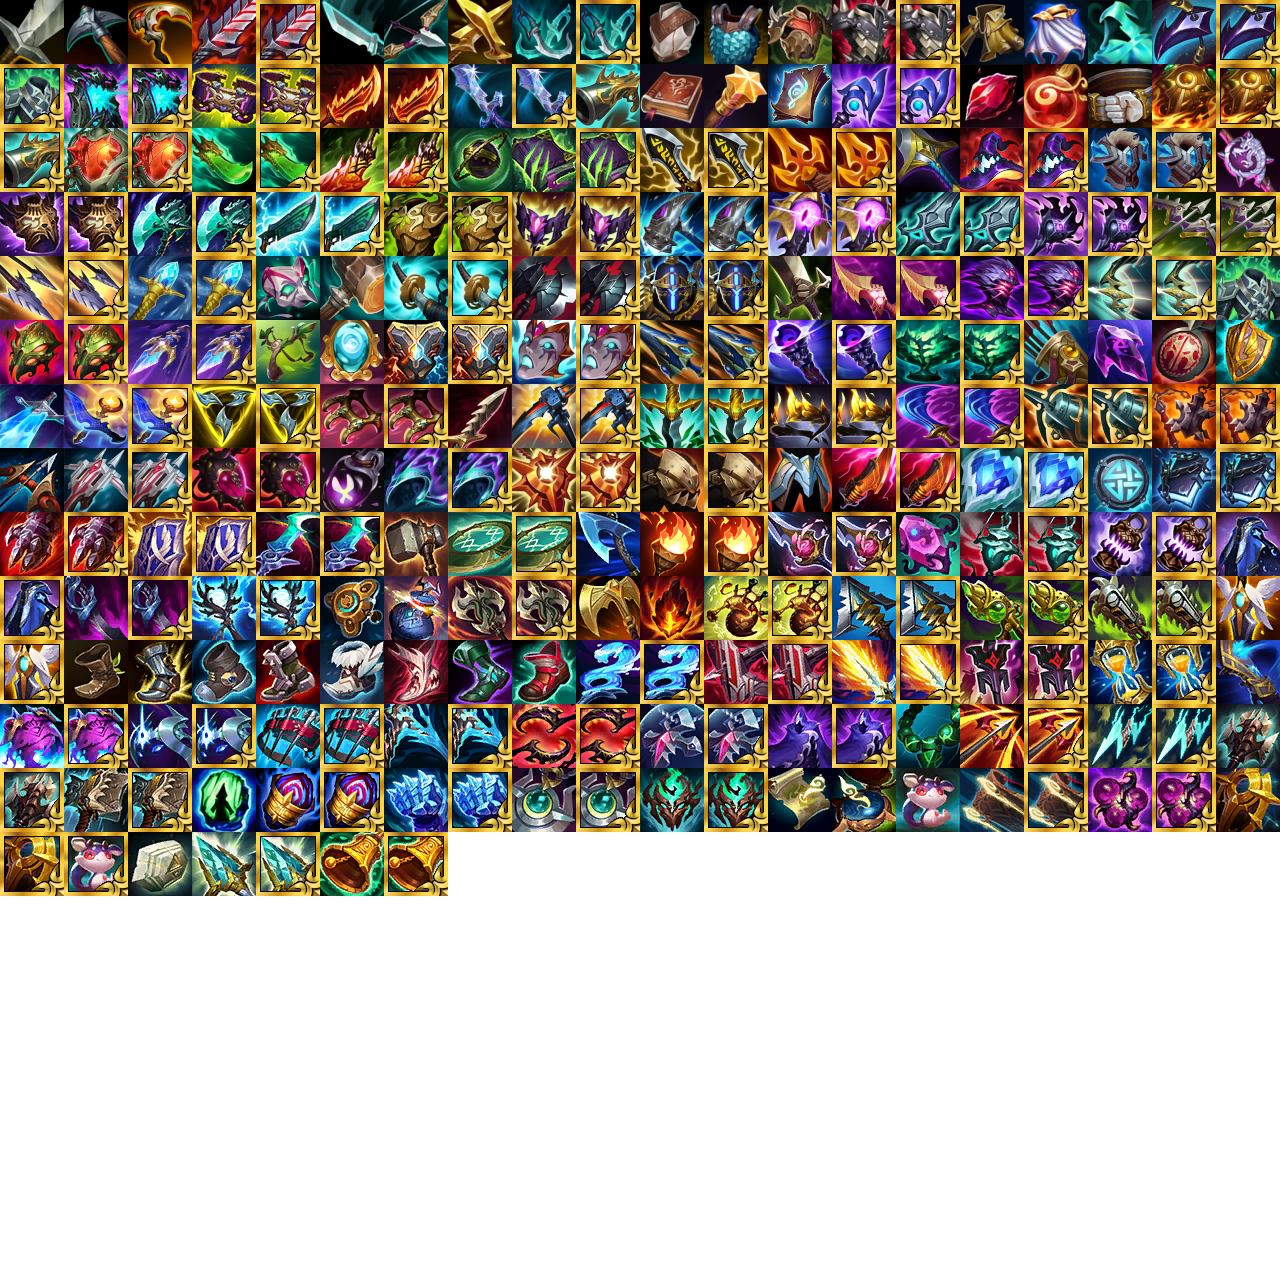
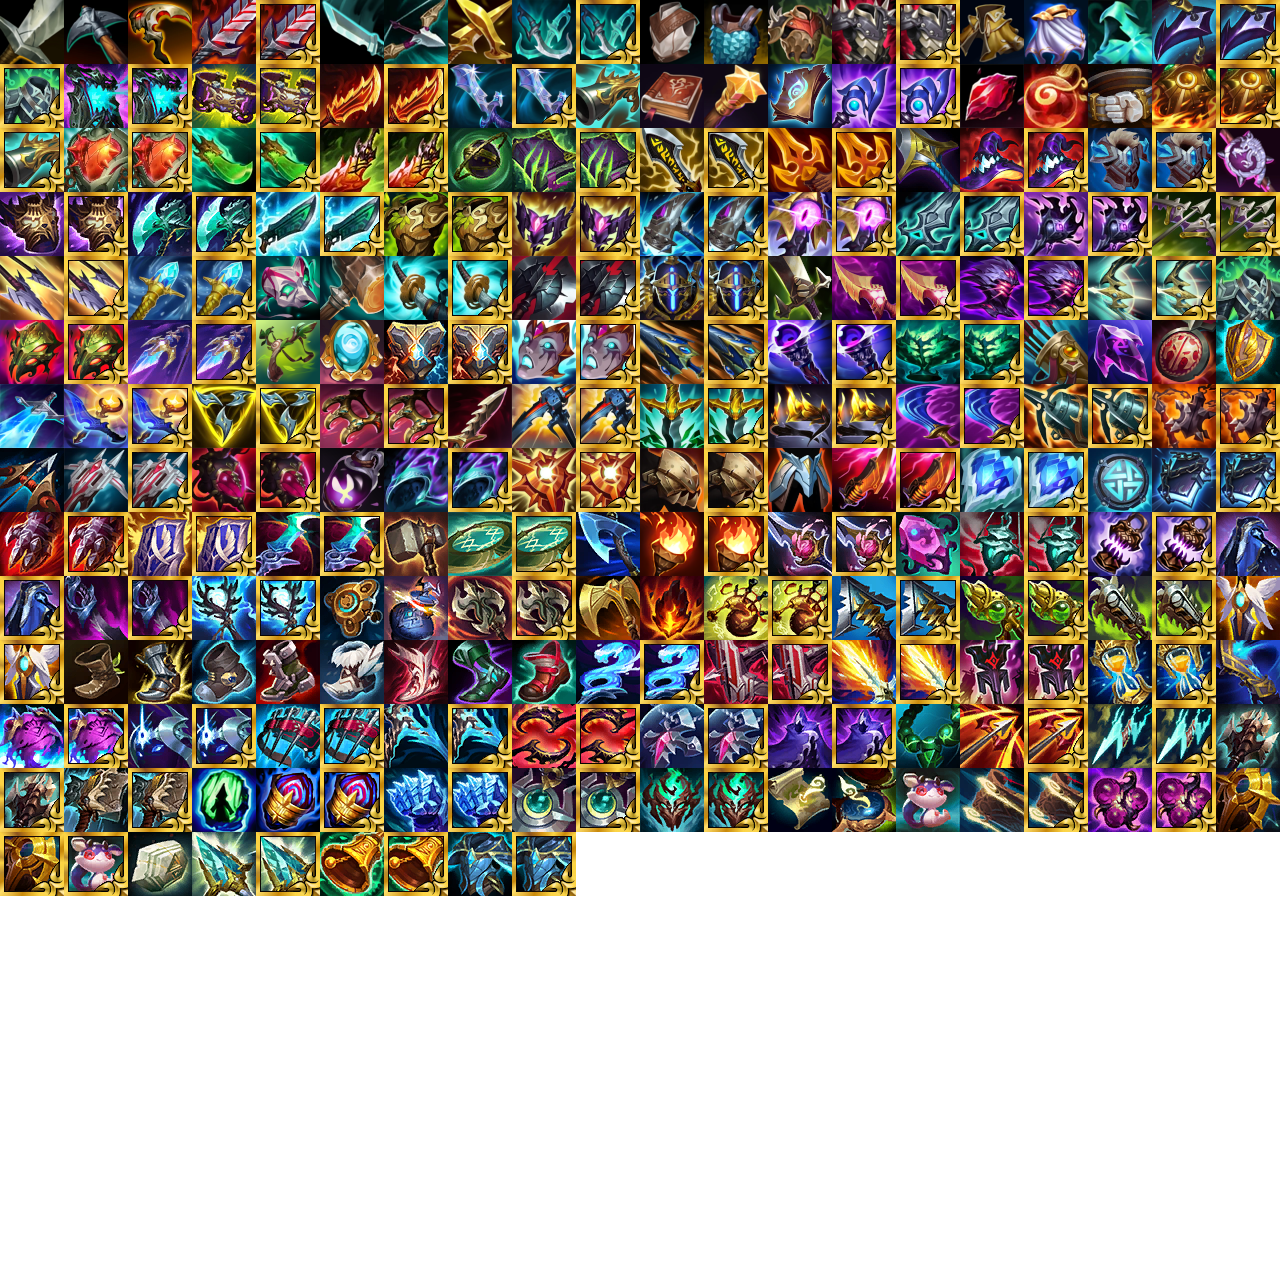
add force of nature

Changed region(s): [[0.3438, 0.625, 0.4688, 0.7188]]

diff --git a/src/items/tank/force_of_nature.rs b/src/items/tank/force_of_nature.rs
@@ -1,0 +1,245 @@
+use mod_api_stable::*;
+
+use crate::config::ItemConfig;
+use crate::{add_stack, apply_config, item_counts, refresh_buff, ticks, ItemMeta};
+
+// Force of Nature: Steadfast. Magic damage from enemy champions (at most
+// `effect_stacks_per_second` stacks a second) and their hard crowd control
+// (`effect_immobilize_stacks` at once) build stacks on the carrier; a full set
+// grants bonus magic resistance and movement speed.
+//
+// The stacks are statless copies of one buff (`add_stack`), each new one
+// rewriting every copy's duration, so they all run out together. The bonus is
+// put up again, with the same duration, by every stack that leaves the count
+// at the cap, so it lapses with them. Both tiers share the buff names: one
+// pool of stacks and one bonus whichever is held.
+#[derive(Clone, Debug)]
+pub struct ForceOfNature {
+    meta: ItemMeta,
+    stack_buff: &'static str,
+    steadfast_buff: &'static str,
+    price: usize,
+    hp: i32,
+    magic_resistance: i32,
+    move_speed_mult: i32,
+    effect_max_stacks: usize,
+    effect_stacks_per_second: usize,
+    effect_immobilize_stacks: usize,
+    effect_duration_seconds: f64,
+    effect_bonus_magic_resistance: i32,
+    effect_move_speed_mult: i32,
+    // Non-vital stats (internals)
+    // Ticks until magic damage may give another stack.
+    damage_stack_cooldown: usize,
+}
+
+impl ForceOfNature {
+    pub fn base() -> Self {
+        Self {
+            meta: ItemMeta::base(
+                "force_of_nature",
+                &["winged_moonplate"],
+                &["radiant_force_of_nature"],
+            ),
+            stack_buff: "force_of_nature_stack",
+            steadfast_buff: "force_of_nature_steadfast",
+            price: 700,
+            hp: 300,
+            magic_resistance: 50,
+            move_speed_mult: 4,
+            effect_max_stacks: 8,
+            effect_stacks_per_second: 1,
+            effect_immobilize_stacks: 2,
+            effect_duration_seconds: 7.0,
+            effect_bonus_magic_resistance: 70,
+            effect_move_speed_mult: 6,
+            // Non-vital stats (internals)
+            damage_stack_cooldown: 0,
+        }
+    }
+
+    pub fn radiant() -> Self {
+        Self {
+            meta: ItemMeta::radiant("radiant_force_of_nature", &["force_of_nature"]),
+            price: 950,
+            hp: 500,
+            magic_resistance: 75,
+            move_speed_mult: 4,
+            // Steadfast itself is unchanged — Radiant buys the stat line only.
+            ..Self::base()
+        }
+    }
+
+    pub fn with_config(cfg: &ItemConfig) -> Self {
+        Self::base().configured(cfg)
+    }
+
+    pub fn radiant_with_config(cfg: &ItemConfig) -> Self {
+        Self::radiant().configured(cfg)
+    }
+
+    fn configured(mut self, cfg: &ItemConfig) -> Self {
+        apply_config!(
+            self,
+            cfg,
+            [
+                price,
+                hp,
+                magic_resistance,
+                move_speed_mult,
+                effect_max_stacks,
+                effect_stacks_per_second,
+                effect_immobilize_stacks,
+                effect_duration_seconds,
+                effect_bonus_magic_resistance,
+                effect_move_speed_mult
+            ]
+        );
+        self
+    }
+
+    // Whether `source` is a champion on the other team from `entity`.
+    fn is_enemy_champion(ctx: &StableSim<'_>, entity: usize, source: usize) -> bool {
+        let Some(team) = ctx.get_entity(entity).map(|e| e.team()) else {
+            return false;
+        };
+        ctx.get_entity(source)
+            .is_some_and(|s| s.is_champion() && s.team() != team)
+    }
+
+    // Adds `count` Steadfast stacks to `entity`, and puts the bonus up again
+    // when they leave it at the cap.
+    fn gain_stacks(&self, ctx: &mut StableSim<'_>, entity: usize, count: usize) {
+        let duration = ticks(self.effect_duration_seconds);
+        let stack = BuffV1::timed(self.stack_buff, duration);
+        let mut stacks = 0;
+        for _ in 0..count {
+            stacks = add_stack(ctx, entity, &stack, self.effect_max_stacks);
+        }
+        if stacks == 0 || stacks < self.effect_max_stacks {
+            return;
+        }
+        refresh_buff(
+            ctx,
+            entity,
+            self.steadfast_buff,
+            &BuffV1 {
+                magic_resistance: self.effect_bonus_magic_resistance,
+                move_speed_mult: self.effect_move_speed_mult,
+                ..BuffV1::timed(self.steadfast_buff, duration)
+            },
+        );
+    }
+}
+
+impl Default for ForceOfNature {
+    fn default() -> Self {
+        Self::base()
+    }
+}
+
+impl StableItem for ForceOfNature {
+    fn clone_box(&self) -> Box<dyn StableItem> {
+        Box::new(self.clone())
+    }
+
+    fn key(&self) -> String {
+        self.meta.key.to_string()
+    }
+
+    fn icon(&self) -> String {
+        self.meta.key.to_string()
+    }
+
+    fn price(&self) -> usize {
+        self.price
+    }
+
+    fn tier(&self) -> usize {
+        self.meta.tier
+    }
+
+    fn previous_tier(&self) -> Vec<String> {
+        self.meta.previous_tier()
+    }
+
+    fn next_tier(&self) -> Vec<String> {
+        self.meta.next_tier()
+    }
+
+    fn stat(&self) -> BuffV1 {
+        BuffV1 {
+            hp: self.hp,
+            magic_resistance: self.magic_resistance,
+            move_speed_mult: self.move_speed_mult,
+            ..Default::default()
+        }
+    }
+
+    fn on_spawn(&mut self, _ctx: &mut StableSim<'_>, _player: usize) {
+        self.damage_stack_cooldown = 0;
+    }
+
+    // The stacks on the carrier, for the number on the item's icon; they run
+    // out together, so it drops to nothing at once.
+    fn update(&mut self, ctx: &mut StableSim<'_>, _rng_seed: u64, player: usize) {
+        self.damage_stack_cooldown = self.damage_stack_cooldown.saturating_sub(1);
+
+        let stacks = self.stack_buff;
+        item_counts::note_in_combat(ctx, player, self.meta.key, || {
+            item_counts::buff_copies(ctx, player, stacks)
+        });
+    }
+
+    fn on_damaged(
+        &mut self,
+        ctx: &mut StableSim<'_>,
+        _player: usize,
+        entity: usize,
+        attacker: usize,
+        damage: usize,
+        damage_type: DamageTypeV1,
+        _attack_type: AttackTypeV1,
+        _is_crit: bool,
+    ) {
+        if damage == 0
+            || damage_type != DamageTypeV1::Ap
+            || self.effect_stacks_per_second == 0
+            || self.damage_stack_cooldown > 0
+            || !Self::is_enemy_champion(ctx, entity, attacker)
+        {
+            return;
+        }
+        // One stack, then none for the rest of its share of the second.
+        self.damage_stack_cooldown = ticks(1.0 / self.effect_stacks_per_second as f64).max(1);
+        self.gain_stacks(ctx, entity, 1);
+    }
+
+    // The host reports hard crowd control only, which is what "immobilized"
+    // means here; it does not say which kind.
+    fn on_cc(&mut self, ctx: &mut StableSim<'_>, _rng_seed: u64, player: usize, caster: usize) {
+        let Some(entity) = ctx
+            .get_player(player)
+            .and_then(|p| p.champion())
+            .map(|c| c.id())
+        else {
+            return;
+        };
+        if !Self::is_enemy_champion(ctx, entity, caster) {
+            return;
+        }
+        self.gain_stacks(ctx, entity, self.effect_immobilize_stacks);
+    }
+
+    fn tags(&self) -> Vec<ItemTagV1> {
+        vec![
+            ItemTagV1::Hp,
+            ItemTagV1::MagicResistance,
+            ItemTagV1::MoveSpeed,
+        ]
+    }
+
+    fn category(&self) -> ItemCategoryV1 {
+        ItemCategoryV1::MagicResistance
+    }
+}

diff --git a/src/lib.rs b/src/lib.rs
@@ -568,6 +568,7 @@ fn init(host: &StableHost) -> StableMod {
     reg.add_item(configured!("experimental_hexplate" => ExperimentalHexplate));
     reg.add_item(configured!("feral_flare" => FeralFlare));
     reg.add_item(configured!("fiendhunter_bolts" => FiendhunterBolts));
+    reg.add_item(configured!("force_of_nature" => ForceOfNature));
     reg.add_item(configured!("frozen_heart" => FrozenHeart));
     reg.add_item(configured!("frozen_mallet" => FrozenMallet));
     reg.add_item(configured!("grezs_spectral_lantern" => GrezsSpectralLantern));
@@ -671,6 +672,7 @@ fn init(host: &StableHost) -> StableMod {
     reg.add_item(configured_radiant!("radiant_experimental_hexplate" => ExperimentalHexplate));
     reg.add_item(configured_radiant!("radiant_feral_flare" => FeralFlare));
     reg.add_item(configured_radiant!("radiant_fiendhunter_bolts" => FiendhunterBolts));
+    reg.add_item(configured_radiant!("radiant_force_of_nature" => ForceOfNature));
     reg.add_item(configured_radiant!("radiant_frozen_heart" => FrozenHeart));
     reg.add_item(configured_radiant!("radiant_frozen_mallet" => FrozenMallet));
     reg.add_item(configured_radiant!("radiant_grezs_spectral_lantern" => GrezsSpectralLantern));

diff --git a/src/patches/text.rs b/src/patches/text.rs
@@ -1159,7 +1159,7 @@ const FIELD_FORMATS: [FieldFormat; 5] = [
     },
 ];
 
-const ROW_FORMATS: [RowFormat; 120] = [
+const ROW_FORMATS: [RowFormat; 122] = [
     RowFormat {
         item: "deaths_dance",
         field: "effect_delayed_damage_percent",
@@ -1794,6 +1794,20 @@ const ROW_FORMATS: [RowFormat; 120] = [
         item: "fiendhunter_bolts",
         field: "effect_attack_speed_mult",
         label: Some(("row_attack_speed", "Attack Speed")),
+        lead: None,
+        unit: None,
+    },
+    RowFormat {
+        item: "force_of_nature",
+        field: "effect_bonus_magic_resistance",
+        label: Some(("row_magic_resistance", "Magic Resistance")),
+        lead: None,
+        unit: None,
+    },
+    RowFormat {
+        item: "force_of_nature",
+        field: "effect_move_speed_mult",
+        label: Some(("row_movement_speed", "Movement Speed")),
         lead: None,
         unit: None,
     },

diff --git a/src/utils/config.rs b/src/utils/config.rs
@@ -146,6 +146,7 @@ pub struct ItemConfig {
     pub effect_growth_skill_cooldown_mult: Option<i32>,
     pub effect_growth_interval_seconds: Option<f64>,
     pub effect_max_growth_stacks: Option<usize>,
+    pub effect_immobilize_stacks: Option<usize>,
 }
 
 // Overwrites the listed fields of an item with the config file's values,

diff --git a/src/patches/fields.rs b/src/patches/fields.rs
@@ -85,6 +85,7 @@ const FROZEN: &[&str] = &[
     "effect_max_targets",
     "effect_max_growth_stacks",
     "effect_stacks_per_second",
+    "effect_immobilize_stacks",
     "effect_hp_per_stack",
     "effect_attack_interval",
     "effect_melee_distance",

diff --git a/src/items/components/winged_moonplate.rs b/src/items/components/winged_moonplate.rs
@@ -58,6 +58,7 @@ impl StableItem for WingedMoonplate {
             "protoplasm_harness".to_string(),
             "cosmic_drive".to_string(),
             "hullbreaker".to_string(),
+            "force_of_nature".to_string(),
         ]
     }
 

diff --git a/src/items/tank/mod.rs b/src/items/tank/mod.rs
@@ -5,6 +5,7 @@ items! {
     atmas_reckoning,
     cloak_of_starry_night,
     dead_mans_plate,
+    force_of_nature,
     frozen_heart,
     heartsteel,
     hollow_radiance,

diff --git a/README.md b/README.md
@@ -1,5 +1,5 @@
 Adds items inspired from Riot Games (LoL, TFT) to Teamfight Manager 2.  
-Reskins the 30 existing items and also adds 237 new items (138 base + 99 Radiant) to the game.
+Reskins the 30 existing items and also adds 239 new items (139 base + 100 Radiant) to the game.
 
 ##### Instructions  
 If you are only seeing Bloodthirster/Luden's/Sunfire (vanilla items, no modded), that means the save you are playing is not loading the mod order. To fix this, try the following:
@@ -153,6 +153,7 @@ Ability Haste works like League's: cooldown = base × 100 / (100 + Ability Haste
 | **Experimental Hexplate** | 800G | +300 HP<br>+25% AS | Hexcharged: Gain 15 Ultimate Ability Haste.<br>Overdrive: Upon casting your ultimate ability, enter Overdrive, gaining 32% attack speed and 16% movement speed for 8 seconds (32 second cooldown, starting on cast). |
 | **Feral Flare** | 700G | +25 AD<br>+20% AS<br>+10 Armor | Maim: Gain a Feral stack for each champion takedown scored and monster killed, up to 30. Basic attacks deal 25 (+1 per Feral stack) bonus magic damage on-hit and restore 10 health. This effect is 150% as effective against minions and monsters. |
 | **Fiendhunter Bolts** | 700G | +30% AS<br>+20% Crit Chance<br>+4% MS | Night Vigil: Gain 15 Ultimate Ability Haste.<br>Opening Barrage: Upon casting your ultimate ability, gain 50% attack speed for 8 seconds. Your next 3 basic attacks within this window critically strike for 60% bonus damage. If the attack would have already critically struck, it instead deals bonus true damage equal to 15% of its damage dealt (45 second cooldown). |
+| **Force of Nature** | 700G | +300 HP<br>+50 MR<br>+4% MS | Steadfast: Taking magic damage from champions grants a stack of Steadfast for 7 seconds, up to 1 stack per second (max 8 stacks). Being immobilized by an enemy champion grants 2 stacks. At maximum stacks, gain 70 bonus magic resistance and 6% bonus movement speed. |
 | **Frozen Heart** | 650G | +35 Armor<br>+10 Ability Haste<br>+10% Skill DMG Reduction | Winter's Caress: Reduce the attack speed of enemy champions within 100 range by 30%. |
 | **Frozen Mallet** | 700G | +350 HP<br>+20 AD | Icy: Basic attacks apply a 15% slow for 2 seconds. |
 | **Grez's Spectral Lantern** | 700G | +250 HP<br>+30 AP<br>+10 Ability Haste | Spirit Drain: Gain 1 Ability Power for each champion takedown and monster killed, up to 20.<br>Butcher: Against monsters, deal 20% bonus magic damage and restore health equal to 4% of your damage dealt. |
@@ -257,6 +258,7 @@ Ability Haste works like League's: cooldown = base × 100 / (100 + Ability Haste
 | **Radiant Experimental Hexplate** | 950G | +450 HP<br>+35% AS<br>+5% MS | Hexcharged: Gain 25 Ultimate Ability Haste.<br>Overdrive: Upon casting your ultimate ability, enter Overdrive, gaining 32% attack speed and 16% movement speed for 8 seconds (32 second cooldown, starting on cast). |
 | **Radiant Feral Flare** | 1000G | +30 AD<br>+40% AS<br>+20 Armor | Maim: Gain a Feral stack for each champion takedown scored and monster killed, up to 50. Basic attacks deal 25 (+1 per Feral stack) bonus magic damage on-hit and restore 10 health. This effect is 150% as effective against minions and monsters. |
 | **Radiant Fiendhunter Bolts** | 1000G | +50% AS<br>+25% Crit Chance<br>+4% MS | Night Vigil: Gain 25 Ultimate Ability Haste.<br>Opening Barrage: Upon casting your ultimate ability, gain 50% attack speed for 8 seconds. Your next 3 basic attacks within this window critically strike for 60% bonus damage. If the attack would have already critically struck, it instead deals bonus true damage equal to 15% of its damage dealt (45 second cooldown). |
+| **Radiant Force of Nature** | 950G | +500 HP<br>+75 MR<br>+4% MS | Steadfast: Taking magic damage from champions grants a stack of Steadfast for 7 seconds, up to 1 stack per second (max 8 stacks). Being immobilized by an enemy champion grants 2 stacks. At maximum stacks, gain 70 bonus magic resistance and 6% bonus movement speed. |
 | **Radiant Frozen Heart** | 950G | +55 Armor<br>+15 Ability Haste<br>+15% Skill DMG Reduction | Winter's Caress: Reduce the attack speed of enemy champions within 100 range by 30%. |
 | **Radiant Frozen Mallet** | 1000G | +550 HP<br>+30 AD | Icy: Basic attacks deal bonus physical damage equal to 20 + 3% of your maximum health and apply a 15% slow for 2 seconds. |
 | **Radiant Grez's Spectral Lantern** | 1000G | +300 HP<br>+60 AP<br>+10 Ability Haste | Spirit Drain: Gain 1 Ability Power for each champion takedown and monster killed, up to 40.<br>Butcher: Against monsters, deal 30% bonus magic damage and restore health equal to 6% of your damage dealt. |

diff --git a/workshop_desc.md b/workshop_desc.md
@@ -1,4 +1,4 @@
-Adds 6 item slots & 237 new items (138 base + 99 Radiant) to Teamfight Manager 2.  
+Adds 6 item slots & 239 new items (139 base + 100 Radiant) to Teamfight Manager 2.  
 Also re-skins the 30 existing items and adds custom icons for Armor Penetration, Magic Penetration, Ability Haste, Tenacity, Omnivamp, and Skill Damage Reduction.  
 Champions start each match with 250 gold instead of 500.  
 
